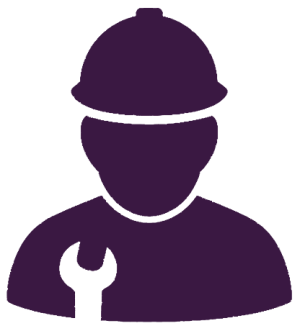
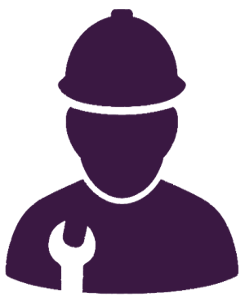
correção de recursos.

diff --git a/system/funcoes/js/f_cadastros.js b/system/funcoes/js/f_cadastros.js
@@ -30,9 +30,9 @@ $(function () {
     });
 });
 
-$(document).ready(function () {
-    $('#turma').chosen({no_results_text: "Oops, não encontrado!!"});
-});
+//$(document).ready(function () {
+//    $('#turma').chosen({no_results_text: "Oops, não encontrado!!"});
+//});
 
 //acionamento do POST para php de acordo com tipo de usuario
 $(document).ready(function () {

diff --git a/assets/css/estilo.css b/assets/css/estilo.css
@@ -105,12 +105,12 @@ img#icone-aluno {
 
 img#icone-professor {
 	top: 100px !important;
-	width: 41% !important;
+	width: 40% !important;
 }
 
 img#icone-investidor {
-	top: 105px !important;
-	width: 38% !important;
+	top: 100px !important;
+	width: 40% !important;
 }
 
 p{

diff --git a/system/controller/EnviarEmailClass.php b/system/controller/EnviarEmailClass.php
@@ -21,9 +21,9 @@ class EnviarEmailClass {
         $this->PHPMailer = new PHPMailer();
     }
     
-    private $HOST = "ssl://smtp.googlemail.com";
-    private $USERNAME = "testeteste1700@gmail.com";
-    private $PWD = "teste1900";
+    private $HOST = "ssl://brasil-rbr2.dizinc.com";
+    private $USERNAME = "noreply@unaideas.com.br";
+    private $PWD = "921I2UA=)rlz";
     private $PORT = "465";
 
     public function enviarEmail($de, $deName, $para, $paraName, $assunto, $corpo, $debug) {
